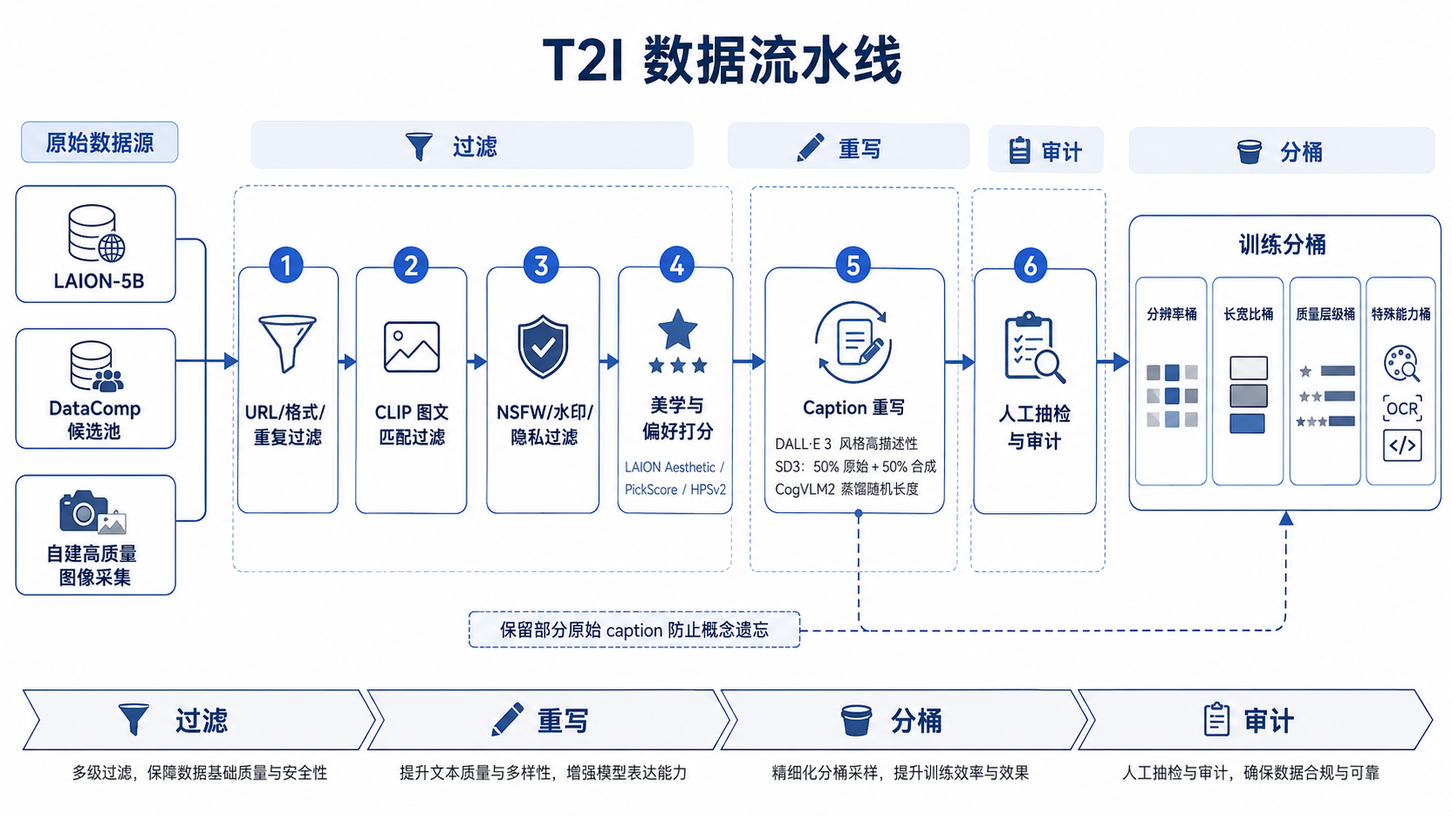
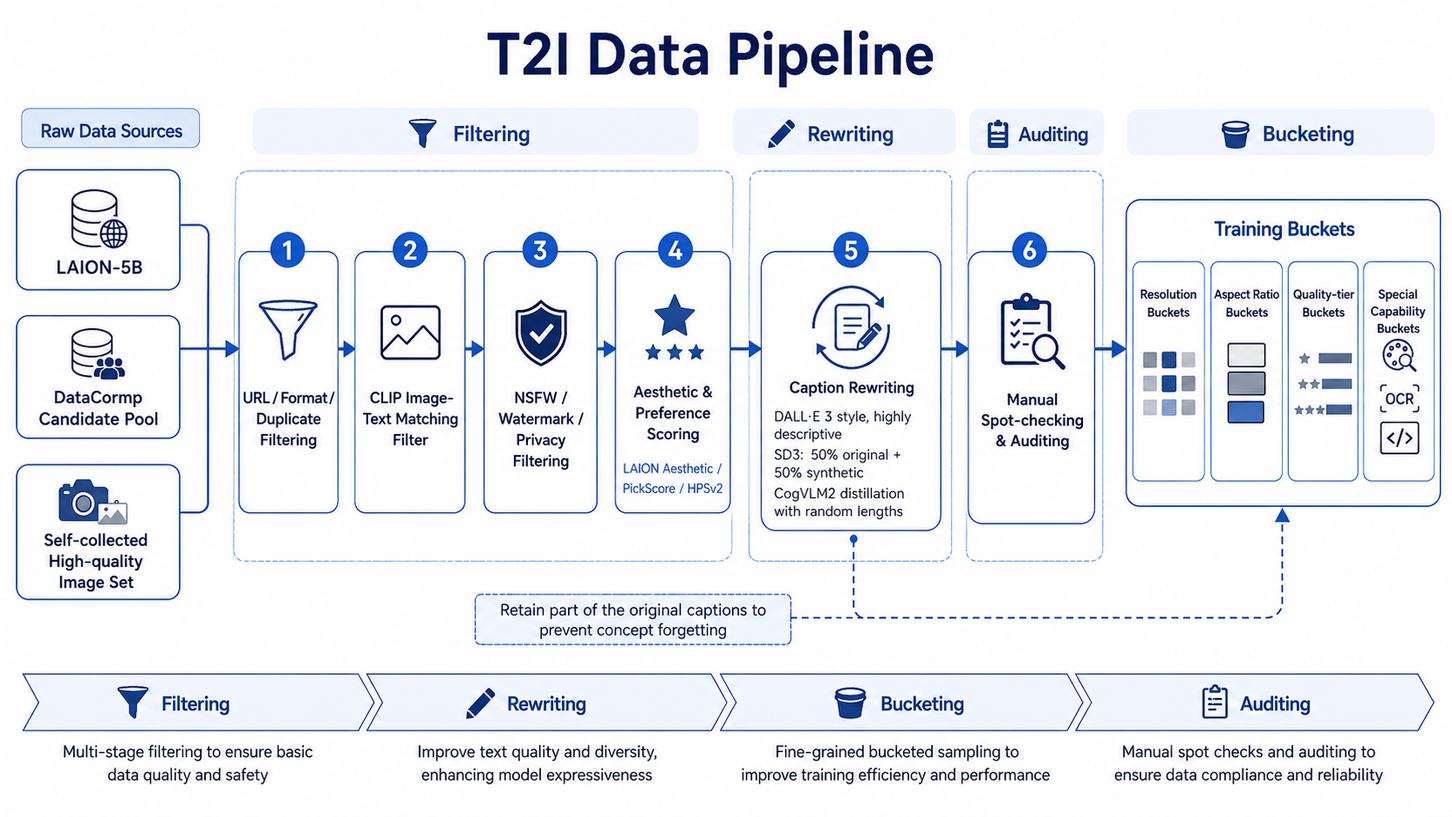
Update the English images and modify the issues related to cross-review.

diff --git a/docs/zh/part6/ch18_cot.md b/docs/zh/part6/ch18_cot.md
@@ -1,6 +1,6 @@
 **篇前导读**
 
-随着大模型从“会回答”走向“会推理、会调用工具、会进行多轮协作”，数据工程的重点也在发生变化；CoT 与 ReAct 等工作分别把中间推理步骤、推理—行动交错轨迹引入了大模型任务求解范式 ( Yao et al. 2023b)。过去，很多数据工作主要围绕结果展开，关注模型是否给出正确答案；但在推理模型与 Agent 系统中，仅有结果监督已经不足以支撑真实任务。模型是否会分步思考、是否能正确使用工具、是否能在多轮交互中保持状态一致并利用记忆，正在成为新的关键问题。
+随着大模型从“会回答”走向“会推理、会调用工具、会进行多轮协作”，数据工程的重点也在发生变化；CoT 与 ReAct 等工作分别把中间推理步骤、推理—行动交错轨迹引入了大模型任务求解范式 (Yao et al. 2023b)。过去，很多数据工作主要围绕结果展开，关注模型是否给出正确答案；但在推理模型与 Agent 系统中，仅有结果监督已经不足以支撑真实任务。模型是否会分步思考、是否能正确使用工具、是否能在多轮交互中保持状态一致并利用记忆，正在成为新的关键问题。
 
 因此，本篇聚焦“会想、会用工具、会记忆”的新型数据问题，讨论数据工程如何从结果监督升级到过程监督与轨迹监督；过程监督在数学推理任务中的作用，已经在 PRM800K 与过程奖励模型相关研究中被系统比较 (Lightman et al. 2024)。这里的数据已经从单轮问答对，逐渐扩展为推理过程、工具调用链路、交互状态和记忆演化等更复杂的结构。数据质量的衡量标准，也不再只是答案是否正确，而要进一步关注过程是否合理、执行是否成功、状态是否稳定。
 
@@ -20,9 +20,9 @@
 
 这个案例说明，推理数据工程的核心对象并不是孤立的答案，也不是单个能够通过测试的输出，而是答案背后的过程。对数学题、逻辑题、代码修复和多跳问答而言，数据样本不应只包含输入和输出，还应尽可能保存中间状态、证据来源、步骤判断、错误原因与控制决策。只有当这些过程被结构化记录、验证和改进时，团队才能知道模型到底是在推理，还是在用貌似合理的语言掩盖不稳定的路径。本章讨论的思维链、推理轨迹、步骤级验证、错误分类和难度组织，正是为了把这种不可见的过程转化为可分析、可训练、可迭代的数据工程对象。
 
-在大模型从“会回答”走向“会推理”的过程中，数据工程的重点会发生明显变化。对于一般的 SFT 数据，团队往往更关注输入是否清晰、输出是否正确、风格是否稳定；而对于数学、逻辑、代码等推理任务，仅仅拥有“问题—答案”对通常是不够的，GSM8K、MATH 与 HumanEval 等基准都把多步推理或可执行验证作为重要评测对象 ( Hendrycks et al. 2021a; Chen et al. 2021)。因为这类任务的关键不只是模型最后说对了什么，更在于它是否沿着一条可验证、可复现、可泛化的推理路径得到这个答案。很多部署中的不稳定现象，表面上看是“偶发答错”，本质上却是训练数据只奖励最终结果，没有约束中间过程，导致模型在不同题型、不同难度、不同上下文下采用了不一致甚至错误的内部策略。
+在大模型从“会回答”走向“会推理”的过程中，数据工程的重点会发生明显变化。对于一般的 SFT 数据，团队往往更关注输入是否清晰、输出是否正确、风格是否稳定；而对于数学、逻辑、代码等推理任务，仅仅拥有“问题—答案”对通常是不够的，GSM8K、MATH 与 HumanEval 等基准都把多步推理或可执行验证作为重要评测对象 (Hendrycks et al. 2021a; Chen et al. 2021)。因为这类任务的关键不只是模型最后说对了什么，更在于它是否沿着一条可验证、可复现、可泛化的推理路径得到这个答案。很多部署中的不稳定现象，表面上看是“偶发答错”，本质上却是训练数据只奖励最终结果，没有约束中间过程，导致模型在不同题型、不同难度、不同上下文下采用了不一致甚至错误的内部策略。
 
-因此，推理数据工程是在普通 SFT 基础上的系统性深化：它保留 SFT 与合成数据的基础生成方法，同时进一步引入推理轨迹表示、步骤级验证、错误分类、难度分层与过程监督；这一路线与 CoT、scratchpad、verifier 和过程监督等研究共同指向了“过程可见、过程可评”的数据组织方式 ( Nye et al. 2021;  Lightman et al. 2024)。它要求团队在“生产更多样本”的基础上，构建一条从题目生成、轨迹构造、自动校验、过程打标到课程组织的完整流水线。只有这样，模型才能从零散题目的答案映射中，学习到一套在数学计算、程序修复、符号推导、逻辑判定中都更稳定的推理行为模式。
+因此，推理数据工程是在普通 SFT 基础上的系统性深化：它保留 SFT 与合成数据的基础生成方法，同时进一步引入推理轨迹表示、步骤级验证、错误分类、难度分层与过程监督；这一路线与 CoT、scratchpad、verifier 和过程监督等研究共同指向了“过程可见、过程可评”的数据组织方式 (Nye et al. 2021;  Lightman et al. 2024)。它要求团队在“生产更多样本”的基础上，构建一条从题目生成、轨迹构造、自动校验、过程打标到课程组织的完整流水线。只有这样，模型才能从零散题目的答案映射中，学习到一套在数学计算、程序修复、符号推导、逻辑判定中都更稳定的推理行为模式。
 
 本章面向需要构建数学、逻辑、代码等推理数据集的团队，系统讨论为什么只看最终答案会掩盖推理缺陷、如何表示推理轨迹、如何做步骤级验证与错误分类、如何构建难度分层与样本组织方案，以及如何在真实工程中落地一套可持续扩展的推理数据流水线。
 
@@ -38,7 +38,7 @@
 
 数学题中，模型可能在某一步中使用了不合法的移项、约分或定理，却因为题目本身结构简单，最终仍然算出了正确数值。逻辑任务中，模型可能没有真正完成前提展开与规则匹配，只是直接套用了某个熟悉的结论形式。代码修复中，模型也可能没有理解 bug 的真实成因，只是碰巧修改了一个能让当前测试通过的局部位置；SWE-bench 这类真实 issue 级基准正是把“是否真正解决问题”放到仓库、测试与补丁语境中评估 (Jimenez et al. 2024)。表面上，这些样本都可以被归类为“成功”；但从能力学习的角度看，模型学到的更接近某种高风险的捷径，缺少稳定的求解机制。
 
-如果训练数据只保留“题目—答案”对，而不显式约束中间过程，那么训练阶段的奖励信号就会被极度压缩；训练 verifier 或过程奖励模型的思路，正是试图把反馈从最终答案扩展到候选解或中间步骤 ( Lightman et al. 2024)。模型不需要证明自己如何抵达结果，也不需要为过程中的跳步、伪解释、无依据推断付出代价。它只需要学会尽可能输出一个会被判定为“对”的终点。这样形成的能力，往往对题型、措辞、长度和上下文非常敏感。只要问题形式稍有变化，或者需要更长的推理链条，模型就可能迅速失去稳定性。
+如果训练数据只保留“题目—答案”对，而不显式约束中间过程，那么训练阶段的奖励信号就会被极度压缩；训练 verifier 或过程奖励模型的思路，正是试图把反馈从最终答案扩展到候选解或中间步骤 (Lightman et al. 2024)。模型不需要证明自己如何抵达结果，也不需要为过程中的跳步、伪解释、无依据推断付出代价。它只需要学会尽可能输出一个会被判定为“对”的终点。这样形成的能力，往往对题型、措辞、长度和上下文非常敏感。只要问题形式稍有变化，或者需要更长的推理链条，模型就可能迅速失去稳定性。
 
 更重要的是，正确答案与正确推理的脱钩，会直接误导团队对模型能力的判断。团队如果把“答对率提升”简单理解为“推理能力提升”，就可能在训练、评测和部署三个环节持续高估系统的真实水平。一个只擅长命中答案表面的模型，在离线评测中可能看起来已经足够优秀，但在真实使用场景里却很难维持可靠表现。
 
@@ -52,7 +52,7 @@
 
 ### 结果监督在复杂任务上的盲区
 
-结果监督适合那些目标明确、路径不重要或中间状态难以定义的任务；但在多步数学题和代码生成评测中，研究者已经普遍引入 verifier、单元测试或分步解答来补足最终标签的不足 (  Chen et al. 2021)。在分类任务中，我们关心标签是否正确；在简单抽取任务中，我们关心字段是否匹配；在低推理深度问答中，我们也常常只关心回答是否与事实一致。但一旦任务进入多步依赖、多约束耦合或长链求解，结果监督就会出现明显盲区。
+结果监督适合那些目标明确、路径不重要或中间状态难以定义的任务；但在多步数学题和代码生成评测中，研究者已经普遍引入 verifier、单元测试或分步解答来补足最终标签的不足 (Chen et al. 2021)。在分类任务中，我们关心标签是否正确；在简单抽取任务中，我们关心字段是否匹配；在低推理深度问答中，我们也常常只关心回答是否与事实一致。但一旦任务进入多步依赖、多约束耦合或长链求解，结果监督就会出现明显盲区。
 
 第一，结果监督无法告诉我们错误发生在哪一层。一个最终错误，可能来自题意理解错误、条件遗漏、局部计算错误、规则误用、状态不一致，也可能只是最后输出格式偏差。若只保留整题对错，这些完全不同性质的问题都会被压缩成同一种失败标签。第二，结果监督无法区分“几乎正确但最后一小步失误”和“前面全错但碰巧答对”这两类样本。前者通常具有很强的训练价值，因为它说明模型主体路径已经接近正确；后者则是高风险样本，因为它可能把错误模式包装成正例。第三，结果监督无法为数据迭代提供细粒度反馈。团队最多知道某类题整体成功率不高，却不知道究竟是哪一类步骤、哪一类规则、哪一类变量操作在持续出问题。
 
@@ -62,7 +62,7 @@
 
 ### 为什么结果监督会误导数据分析
 
-在实际工程中，数据分析往往依赖一些宏观指标，例如准确率、通过率、整题成功率或平均得分。这些指标当然有用，但如果任务本质上依赖过程，它们就只能反映最终表现，无法揭示内部机制；APPS、HumanEval 与 SWE-bench 虽然都使用可执行测试衡量结果 ( Chen et al. 2021; Jimenez et al. 2024)，但它们也暴露出 pass rate 难以解释具体失败根因的问题。于是，团队很容易陷入一种假象：只要整体指标在上升，就说明系统在持续变好。
+在实际工程中，数据分析往往依赖一些宏观指标，例如准确率、通过率、整题成功率或平均得分。这些指标当然有用，但如果任务本质上依赖过程，它们就只能反映最终表现，无法揭示内部机制；APPS、HumanEval 与 SWE-bench 虽然都使用可执行测试衡量结果 (Chen et al. 2021; Jimenez et al. 2024)，但它们也暴露出 pass rate 难以解释具体失败根因的问题。于是，团队很容易陷入一种假象：只要整体指标在上升，就说明系统在持续变好。
 
 问题在于，指标上升可能来自多种完全不同的原因。有时是因为模型确实学会了更稳定的推理路径；有时却只是因为它记住了更多高频模式，或在某类固定 benchmark 上形成了更强的模板匹配能力。如果团队没有过程级视角，就无法区分这两种情况。于是，数据分析看起来很积极，模型却并没有获得足够的泛化能力。
 
@@ -82,7 +82,7 @@
 
 数学长题中，一个早期变量定义的偏差，会让后续所有推导失去意义；逻辑多跳问题中，一次前提遗漏会导致整条论证链条塌陷；代码复杂修复中，对根因的误判会使后续补丁设计全部偏离方向。链条越长，过程的稳定性越重要，结果监督的局限也就越明显。因为当错误累积到后段时，团队只看到“最后错了”，却看不到究竟是哪一层级首先崩坏。
 
-这也是为什么推理数据工程必须强调过程；scratchpad 与 CoT 相关实验均显示，把中间计算或推理显式化会显著改变模型处理多步任务的能力边界 ( Nye et al. 2021)。原因在于，在长链任务中，过程就是正确性的主要载体，并非过程本身更“高级”。没有过程约束，模型在复杂任务上的表现很难真正稳定下来。
+这也是为什么推理数据工程必须强调过程；scratchpad 与 CoT 相关实验均显示，把中间计算或推理显式化会显著改变模型处理多步任务的能力边界 (Nye et al. 2021)。原因在于，在长链任务中，过程就是正确性的主要载体，并非过程本身更“高级”。没有过程约束，模型在复杂任务上的表现很难真正稳定下来。
 
 ### 从“答案导向”转向“过程导向”
 
@@ -171,8 +171,9 @@ Tree-of-Thought (Yao et al. 2023a) 将推理过程从单一线性链扩展为多
 
 从工程上讲，推理轨迹的结构化程度，实际上决定了自动化验证的上限。轨迹越混杂、越自由、越依赖隐含理解，验证成本就越高；轨迹越清晰、越字段化、越显式，后续质控就越容易稳定运行。因此，一个成熟的数据系统从来不会把表示方式当成单纯的书写风格问题，而会把它视为整个推理数据管线的基础设施。
 
-### 表：推理样本类型与适用任务表
 
+
+*表 18-1：推理样本类型与适用任务表*
 | 推理样本类型 | 主要表示形式 | 适用任务 | 优势 | 局限 |
 |---|---|---|---|---|
 | 答案型样本 | 问题 + 最终答案 | 简单问答、分类、低推理深度任务 | 成本低、吞吐高 | 无法暴露过程缺陷 |
@@ -185,7 +186,7 @@ Tree-of-Thought (Yao et al. 2023a) 将推理过程从单一线性链扩展为多
 
 
 
-![图18-1：推理数据构造与验证流程图](../../images/part6/图18_1_zh.png)
+![图18-1：推理数据构造与验证流程图](../../images/part6/图18_1.png)
 
 *图18-1：推理数据构造与验证流程图*
 
@@ -268,7 +269,7 @@ if __name__ == "__main__":
     print(verify_step("x = __import__('os').system('rm -rf /')"))  # False
 ```
 
-单元测试主要服务于代码修复、程序合成和结构化工具调用任务；HumanEval、APPS 和 MBPP 都把测试用例或程序行为作为代码生成评测的重要依据 ( Chen et al. 2021; Austin et al. 2021)。它不仅检查最终程序是否运行，还检查修复是否真正满足预期行为。对于代码任务来说，只看生成文本往往是不够的，真正的质量标准在于程序行为是否正确、边界条件是否覆盖、是否引入新副作用。单元测试在这里承担的是“行为真值”角色，它比文本相似度、表面解释质量更接近实际使用标准。
+单元测试主要服务于代码修复、程序合成和结构化工具调用任务；HumanEval、APPS 和 MBPP 都把测试用例或程序行为作为代码生成评测的重要依据 (Chen et al. 2021; Austin et al. 2021)。它不仅检查最终程序是否运行，还检查修复是否真正满足预期行为。对于代码任务来说，只看生成文本往往是不够的，真正的质量标准在于程序行为是否正确、边界条件是否覆盖、是否引入新副作用。单元测试在这里承担的是“行为真值”角色，它比文本相似度、表面解释质量更接近实际使用标准。
 
 裁判模型 (Zheng et al. 2023; Liu et al. 2023) 则用于补足规则和执行都难以覆盖的语义判断。例如，一个解释是否真的支撑了后续结论，一个逻辑步骤是否属于跳步，一个代码修复理由是否与 patch 行为一致，一段自反思是否真正识别了错误根因。这类问题往往无法完全形式化，但又不能放任不管。裁判模型的价值就在于，它能在大规模场景下提供一种近似语义审核能力。当然，它本身并不绝对可靠，因此通常应与规则和执行验证共同使用，避免单独作为最终标准。
 
@@ -312,18 +313,21 @@ if __name__ == "__main__":
 
 在很多流水线里，整题对错会天然成为最显眼的评分指标，因为它最简单、最直观，也最容易与 benchmark 接轨。但如果过程评分仍然主要依赖最终结果，那么所谓“过程监督”就很容易退化成结果监督的变体；Lightman 等人的实验正是围绕 outcome supervision 与 process supervision 的差异展开 (Lightman et al. 2024)。真正的过程评分应当尽量从中间结构本身出发，避免只把最终答案当作唯一参照物。
 
+
+![图18-2：过程监督标签示意图](../../images/part6/图18_2.png)
+*图18-2：过程监督标签示意图*
+
 例如，一个样本最终答错，但前面九成步骤都正确，且最后一步错误清晰可纠，那么它对训练局部修正能力和过程稳健性仍然很有价值。相反，一个样本最终答对，但中间充满跳步、伪解释和隐含幻觉，那么它虽然在结果上通过，却未必值得高分。换句话说，过程评分必须敢于把“答对但过程差”的样本压低，也要敢于把“答错但过程主体优良”的样本与普通失败样本区分开来。只有这样，评分体系才不会反过来强化结果导向的旧习惯。
 
 
 
 
 
-![图18-2：过程监督标签示意图](../../images/part6/图18_2_zh.png)
 
-*图18-2：过程监督标签示意图*
 
-### 表：错误类型与纠偏动作表
 
+
+*表 18-2：错误类型与纠偏动作表*
 | 错误类型 | 典型表现 | 常见成因 | 推荐纠偏动作 |
 |---|---|---|---|
 | 算术错误 | 计算结果错误、符号抄错、代入失误 | 基础计算不稳、轨迹过长导致局部出错 | 用执行器复算，替换错误步骤并回放后续链条 |
@@ -425,13 +429,13 @@ if __name__ == "__main__":
 
 ### 数学推理数据集构建案例
 
-设想一个面向中学到大学基础阶段的数学推理数据集构建项目；GSM8K 与 MATH 分别代表了小学数学文字题和竞赛数学题两类常用推理数据资源 ( Hendrycks et al. 2021a)。项目初期可以先收集真实题目，覆盖代数、几何、函数、概率等子领域，并为每类题建立基础 schema，例如题干、已知条件、目标、标准解、步骤序列、中间表达式与答案。然后使用教师模型或规则程序生成初始轨迹，再通过表达式求值器、符号计算器和规则检查器验证每一步是否合法。
+设想一个面向中学到大学基础阶段的数学推理数据集构建项目；GSM8K 与 MATH 分别代表了小学数学文字题和竞赛数学题两类常用推理数据资源 (Hendrycks et al. 2021a)。项目初期可以先收集真实题目，覆盖代数、几何、函数、概率等子领域，并为每类题建立基础 schema，例如题干、已知条件、目标、标准解、步骤序列、中间表达式与答案。然后使用教师模型或规则程序生成初始轨迹，再通过表达式求值器、符号计算器和规则检查器验证每一步是否合法。
 
 在这个流程中，团队不应满足于“整题答对率”。更重要的是把失败样本拆开看：到底是基础计算经常错，还是变量替换和条件约束容易丢失，还是模型倾向于写漂亮但空洞的解释。只有把这些错误映射为可统计的类型，数据团队才能反过来改进生成模板、增加针对性样本、调整验证规则。最后，数据集应按难度和错误类型双重维度入库，分别服务于基础 SFT、过程监督训练和纠错能力训练。
 
 ### 数学推理数据集为什么适合作为过程监督的典型场景
 
-数学任务之所以特别适合做推理数据工程，一个重要原因在于它天然具有较强的步骤结构；GSM8K 提供自然语言解题过程，MATH 则提供更高难度竞赛题及分步解答 ( Hendrycks et al. 2021a)。与开放式写作或一般闲聊不同，数学题的求解过程通常包含相对明确的中间状态变化：已知条件如何被整理，变量如何被定义，表达式如何被变换，规则如何被调用，结论如何被推出。这使得“过程”从附属说明转变为题目本身的一部分。也正因为如此，数学任务中的错误往往不会停留在抽象层面，而会具体表现为某一步不合法、某个条件被遗漏、某次代换不成立、某个定理适用前提未被满足。
+数学任务之所以特别适合做推理数据工程，一个重要原因在于它天然具有较强的步骤结构；GSM8K 提供自然语言解题过程，MATH 则提供更高难度竞赛题及分步解答 (Hendrycks et al. 2021a)。与开放式写作或一般闲聊不同，数学题的求解过程通常包含相对明确的中间状态变化：已知条件如何被整理，变量如何被定义，表达式如何被变换，规则如何被调用，结论如何被推出。这使得“过程”从附属说明转变为题目本身的一部分。也正因为如此，数学任务中的错误往往不会停留在抽象层面，而会具体表现为某一步不合法、某个条件被遗漏、某次代换不成立、某个定理适用前提未被满足。
 
 这类结构化特征使数学推理数据非常适合引入步骤级标签与自动验证。很多中间步骤都可以借助表达式求值器、符号运算工具、规则检查器进行形式化审核。团队不必仅凭人工直觉判断一条推理“看起来是否合理”，可以把一部分关键判断交给可重复执行的验证模块。对于数据工程而言，这一点非常关键，因为它意味着数学推理数据不仅可以被生成出来，还可以被系统性地质检、分层和迭代。
 
@@ -477,9 +481,9 @@ if __name__ == "__main__":
 
 ### 代码修复与程序合成推理数据案例
 
-代码任务的工程流程与数学相似，但验证机制更依赖程序执行环境；HumanEval、APPS 和 MBPP 都采用程序运行或测试用例来评估生成代码的功能正确性 ( Chen et al. 2021; Austin et al. 2021)。一个高质量代码修复数据集，不能只保存“错误代码—正确代码”对，还应包括触发缺陷的测试、错误日志、定位过程、修改理由、patch 内容以及修复后的测试结果；Defects4J 与 SWE-bench 都把缺陷、测试和修复上下文作为软件修复研究的重要数据对象 (Jimenez et al. 2024; Just et al. 2014)。这样模型学习的是完整的问题求解闭环，而不只是静态文本映射。
+代码任务的工程流程与数学相似，但验证机制更依赖程序执行环境；HumanEval、APPS 和 MBPP 都采用程序运行或测试用例来评估生成代码的功能正确性 (Chen et al. 2021; Austin et al. 2021)。一个高质量代码修复数据集，不能只保存“错误代码—正确代码”对，还应包括触发缺陷的测试、错误日志、定位过程、修改理由、patch 内容以及修复后的测试结果；Defects4J 与 SWE-bench 都把缺陷、测试和修复上下文作为软件修复研究的重要数据对象 (Jimenez et al. 2024; Just et al. 2014)。这样模型学习的是完整的问题求解闭环，而不只是静态文本映射。
 
-程序合成任务同样需要过程表示；MBPP、APPS ( Austin et al. 2021) 与 CodeGen 的多轮程序合成研究 (Nijkamp et al. 2023)都说明，自然语言规格到代码实现之间存在可被分解与评测的中间结构。对于一段自然语言需求到代码实现的样本，团队可以保留需求分析、中间设计、关键函数草图、边界条件说明和最终实现，再通过单元测试、静态检查、运行结果对齐来完成验证。若把这些中间状态全都省略，只保留需求与代码，那么模型很容易学会表面模式，却无法在新任务中稳定规划程序结构。
+程序合成任务同样需要过程表示；MBPP、APPS (Austin et al. 2021) 与 CodeGen 的多轮程序合成研究 (Nijkamp et al. 2023)都说明，自然语言规格到代码实现之间存在可被分解与评测的中间结构。对于一段自然语言需求到代码实现的样本，团队可以保留需求分析、中间设计、关键函数草图、边界条件说明和最终实现，再通过单元测试、静态检查、运行结果对齐来完成验证。若把这些中间状态全都省略，只保留需求与代码，那么模型很容易学会表面模式，却无法在新任务中稳定规划程序结构。
 
 代码数据还特别适合构造纠错样本。因为程序环境天然支持“失败—定位—修复—再验证”的闭环，这比纯自然语言场景更容易形成高价值过程数据。团队完全可以基于已有代码仓库、OJ 题目、测试集和失败日志，构建一套持续扩展的推理修复数据流水线。
 
@@ -519,7 +523,7 @@ if __name__ == "__main__":
 
 代码推理数据的来源大致可以分成两类。一类来自真实工程环境，例如代码仓库中的 issue、历史 bug 修复记录、pull request、CI 失败日志、回归测试报告等；SWE-bench 正是从真实 GitHub issue 与 pull request 中构造软件工程任务 (Jimenez et al. 2024)。这类数据的优势在于真实性强、错误自然、上下文丰富，特别适合训练接近真实开发流程的修复与分析能力。但它的问题也很明显：上下文可能过长、噪声较多、依赖环境复杂，且标注清洗成本通常较高。
 
-另一类来自题库与受控环境，例如 OJ 题、教学案例、人工构造 bug 集、受限编程任务等；APPS 的 10,000 个编程题、MBPP 的入门级 Python 任务和 Defects4J 的受控真实缺陷都属于这类可评测数据资源的重要代表 ( Austin et al. 2021; Just et al. 2014)。这类数据更容易控制任务边界、测试环境和难度层级，也更适合做程序合成和基础代码修复训练。其不足在于真实复杂性相对有限，错误分布可能与真实工程场景存在差距。
+另一类来自题库与受控环境，例如 OJ 题、教学案例、人工构造 bug 集、受限编程任务等；APPS 的 10,000 个编程题、MBPP 的入门级 Python 任务和 Defects4J 的受控真实缺陷都属于这类可评测数据资源的重要代表 (Austin et al. 2021; Just et al. 2014)。这类数据更容易控制任务边界、测试环境和难度层级，也更适合做程序合成和基础代码修复训练。其不足在于真实复杂性相对有限，错误分布可能与真实工程场景存在差距。
 
 成熟团队通常会把两者结合起来，而不会只依赖其中一类。题库数据适合作为基础能力训练与过程格式统一的主要来源，真实工程数据则适合作为高阶鲁棒性、复杂上下文处理和实际修复行为学习的补充。通过这样的组合，代码推理数据系统既能保持可控性，又不至于脱离真实开发场景。
 
@@ -533,7 +537,7 @@ if __name__ == "__main__":
 
 从全书结构看，推理数据工程是在 SFT 与合成数据工程基础上向更深层次延伸，并非要替代二者。前面的 SFT 章节解决的是“模型应该怎样回答”，合成数据章节解决的是“怎样规模化生产可用样本”，而本章解决的是“当任务本质上依赖过程时，怎样把推理过程也变成可设计、可验证、可训练的数据对象”。
 
-因此，一个成熟团队在方法上往往是连续的：先用 SFT 方法定义任务接口与输出规范，再用合成数据方法扩大覆盖与补齐长尾，最后在推理任务上加入轨迹表示、步骤验证、难度课程和纠错闭环；这一层可以分别吸收 CoT/PoT/ToT、过程监督和 curriculum learning 的方法基础 (  Chen et al. 2023; Lightman et al. 2024; Bengio et al. 2009)。只有把这三层连起来，团队才真正拥有一条面向推理能力建设的数据工程链路，避免停留在若干互相割裂的数据生产技巧上。
+因此，一个成熟团队在方法上往往是连续的：先用 SFT 方法定义任务接口与输出规范，再用合成数据方法扩大覆盖与补齐长尾，最后在推理任务上加入轨迹表示、步骤验证、难度课程和纠错闭环；这一层可以分别吸收 CoT/PoT/ToT、过程监督和 curriculum learning 的方法基础 (Chen et al. 2023; Lightman et al. 2024; Bengio et al. 2009)。只有把这三层连起来，团队才真正拥有一条面向推理能力建设的数据工程链路，避免停留在若干互相割裂的数据生产技巧上。
 
 ### 本章与前文的递进关系
 
@@ -555,7 +559,7 @@ if __name__ == "__main__":
 
 ## 本章小结
 
-推理数据工程的核心，不在于让模型“多说一点思考过程”，而在于把中间过程纳入可设计、可验证、可分层、可训练的工程闭环。只看最终答案会掩盖推理缺陷，因为正确结果并不等于正确过程；只做结果监督会忽略复杂任务中的关键错误来源，因为模型可能通过不稳定甚至错误的路径碰巧答对。为了解决这一问题，团队需要首先设计合适的推理轨迹表示方式，让 CoT、scratchpad、program-of-thought 和 tree-of-thought 各自服务于不同任务 ( Nye et al. 2021;  Chen et al. 2023)；其次建立步骤级自动验证体系，将规则验证、执行验证、单元测试和裁判模型组合起来 (Liu et al. 2023; Chen et al. 2021)；再进一步把错误细分为算术错误、逻辑跳步、伪解释、幻觉步骤等类型，并据此构建步骤级标签和过程质量评分；最后通过难度分桶、课程学习 (Bengio et al. 2009)、正反例组织、纠错样本与自反思样本设计 (Shinn et al. 2023; Madaan et al. 2023)，把推理数据从零散样本提升为可持续演进的数据系统。
+推理数据工程的核心，不在于让模型“多说一点思考过程”，而在于把中间过程纳入可设计、可验证、可分层、可训练的工程闭环。只看最终答案会掩盖推理缺陷，因为正确结果并不等于正确过程；只做结果监督会忽略复杂任务中的关键错误来源，因为模型可能通过不稳定甚至错误的路径碰巧答对。为了解决这一问题，团队需要首先设计合适的推理轨迹表示方式，让 CoT、scratchpad、program-of-thought 和 tree-of-thought 各自服务于不同任务 (Nye et al. 2021;  Chen et al. 2023)；其次建立步骤级自动验证体系，将规则验证、执行验证、单元测试和裁判模型组合起来 (Liu et al. 2023; Chen et al. 2021)；再进一步把错误细分为算术错误、逻辑跳步、伪解释、幻觉步骤等类型，并据此构建步骤级标签和过程质量评分；最后通过难度分桶、课程学习 (Bengio et al. 2009)、正反例组织、纠错样本与自反思样本设计 (Shinn et al. 2023; Madaan et al. 2023)，把推理数据从零散样本提升为可持续演进的数据系统。
 
 对于数学、逻辑、代码等任务而言，真正高价值的数据，应从“答案正确的数据”进一步升级为“过程可靠、错误可归因、难度可组织、验证可闭环的数据”。这也是推理数据工程区别于普通 SFT 数据工程的根本所在。
 

diff --git a/docs/zh/part5/ch16_distillation.md b/docs/zh/part5/ch16_distillation.md
@@ -41,7 +41,7 @@
 
 所谓能力单元，指的是学生需要稳定掌握的一种最小可评估能力片段。它可以是“根据用户输入判断是否调用工具”，也可以是“根据法规条文抽取责任主体”，还可以是“在检索结果中筛选支持结论的关键证据”。把蒸馏任务拆成能力单元的目的，不只是为了数据标注方便，更是为了让教师输出、样本字段和学生目标形成可追踪的对应关系。只有当一个能力单元是清楚的，团队才能知道应该蒸馏答案、蒸馏过程、蒸馏风格，还是蒸馏工具轨迹。
 
-这一步很重要，因为同样是问答样本，实际训练目标可能完全不同。有的样本训练事实抽取，有的训练证据归纳，有的训练边界表达，还有的训练语气控制。如果不提前拆清楚，所有样本都会被笼统归到“问答能力”下面。要是不先把这些东西拆开，所有样本都会被笼统地归到“问答能力”下面，结果学生到底学到了什么，团队自己都很难说清。训练时看起来损失下降了，评估时也许局部指标还能涨一点，但一换场景或者一做错误归因，就会发现整套监督信号其实是糊在一起的。
+这一步很重要，因为同样是问答样本，实际训练目标可能完全不同。有的样本训练事实抽取，有的训练证据归纳，有的训练边界表达，还有的训练语气控制。要是不先把这些东西拆开，所有样本都会被笼统地归到“问答能力”下面，结果学生到底学到了什么，团队自己都很难说清。训练时看起来损失下降了，评估时也许局部指标还能涨一点，但一换场景或者一做错误归因，就会发现整套监督信号其实是糊在一起的。
 
 能力单元明确之后，样本设计才有了边界。比如，对于“是否需要调用外部工具”这种判断任务，样本的关键不在于教师后面写了多少解释，而在于是否把输入上下文、触发条件、调用决策和错误反例保留下来。再比如，对于“长文本规范改写”这种任务，学生更需要学的是风格约束、信息保真和篇章结构，而不是教师在生成过程中所有的冗长思考。一个团队如果能先把任务拆解成若干明确的能力单元，再分别设计蒸馏样本结构，那么后续无论是教师替换、裁判升级还是学生换代，整条链路都会更可控。
 
@@ -186,7 +186,7 @@ if __name__ == "__main__":
 
 ### 蒸馏收益的边界：压缩、迁移与专精
 
-蒸馏并不是一条无限增益的路径。团队在推动蒸馏时，必须清楚蒸馏收益到底来自哪里。第一类收益是压缩，即把大模型在某类任务上的可用能力转移给更小、更快、更便宜的模型，以换取推理成本和延迟上的优势 (Hinton et al. 2015; Bucila et al. 2006)。第二类收益是迁移，即借助强教师模型为弱监督或稀缺场景生成高质量伪标签，让学生快速获得某类能力 ( Wang et al. 2023; Xu et al. 2024)。第三类收益是专精，即通过多轮蒸馏和筛选，把某个垂直场景的知识、规范和风格固化到一个更轻量的专业模型中。
+蒸馏并不是一条无限增益的路径。团队在推动蒸馏时，必须清楚蒸馏收益到底来自哪里。第一类收益是压缩，即把大模型在某类任务上的可用能力转移给更小、更快、更便宜的模型，以换取推理成本和延迟上的优势 (Hinton et al. 2015; Bucila et al. 2006)。第二类收益是迁移，即借助强教师模型为弱监督或稀缺场景生成高质量伪标签，让学生快速获得某类能力 (Wang et al. 2023; Xu et al. 2024)。第三类收益是专精，即通过多轮蒸馏和筛选，把某个垂直场景的知识、规范和风格固化到一个更轻量的专业模型中。
 
 但蒸馏也存在边界。对于极强的开放域推理、长程复杂规划或高度依赖最新外部知识的任务，蒸馏往往只能迁移“常见模式”，难以完整迁移“实时能力”。当业务变化极快、数据分布频繁漂移时，蒸馏的收益也会被维护成本侵蚀。换句话说，蒸馏适合把相对稳定、频繁出现、可结构化定义的能力沉淀下来，而不适合拿来替代所有在线智能。
 
@@ -297,7 +297,7 @@ if __name__ == "__main__":
 
 ### 学生模型能力目标与训练配方设计
 
-学生模型是一个有明确能力目标的独立产品单元，而非缩小版教师模型 (Mirzadeh et al. 2020)。决定学生训练配方的关键，是学生最终要达到什么，而非教师用了什么。一个面向客服质检的学生模型，追求的是稳定、低延迟、格式统一 ( Jiao et al. 2020)；一个面向领域问答的学生模型，追求的是事实一致性与术语规范；一个面向工具调用的学生模型，追求的是参数正确率和调用成功率。不同目标，对样本结构、训练轮数、负样本比例、难例保留策略都有不同要求。
+学生模型是一个有明确能力目标的独立产品单元，而非缩小版教师模型 (Mirzadeh et al. 2020)。决定学生训练配方的关键，是学生最终要达到什么，而非教师用了什么。一个面向客服质检的学生模型，追求的是稳定、低延迟、格式统一 (Jiao et al. 2020)；一个面向领域问答的学生模型，追求的是事实一致性与术语规范；一个面向工具调用的学生模型，追求的是参数正确率和调用成功率。不同目标，对样本结构、训练轮数、负样本比例、难例保留策略都有不同要求。
 
 因此，蒸馏训练配方不能脱离学生能力目标单独讨论。若学生目标是稳定短答，就不应过度依赖冗长解释链；若学生目标是复杂决策，就不能只蒸馏最终标签。更进一步，训练配方还要结合学生模型的容量边界。小模型最怕样本结构过度复杂、标签噪声过高、风格分布不一致。换句话说，教师越强，越需要有人负责把输出整理成学生真正学得动的形态。
 
@@ -305,7 +305,7 @@ if __name__ == "__main__":
 
 ### 学生是业务执行体，而非教师的缩略图
 
-这是蒸馏工程里非常值得单独强调的一点。学生模型常被想象成“更小的教师”，但这种想法会误导整个系统设计。学生不是为了忠实复刻教师而存在的，它是为了在特定业务边界内稳定执行任务而存在的。只要学生在关键任务上足够可靠、足够便宜、足够快，它就已经完成了自身使命 (  Jiao et al. 2020)。
+这是蒸馏工程里非常值得单独强调的一点。学生模型常被想象成“更小的教师”，但这种想法会误导整个系统设计。学生不是为了忠实复刻教师而存在的，它是为了在特定业务边界内稳定执行任务而存在的。只要学生在关键任务上足够可靠、足够便宜、足够快，它就已经完成了自身使命 (Jiao et al. 2020)。
 
 正因为如此，学生训练不应以“像不像教师”为最高目标，而应以“能不能完成业务职责”为最高目标。教师可以有创造性、开放性和探索性，但学生更需要确定性、可验证性和行为边界。如果团队总是用教师视角评价学生，就会不断要求学生学更多、更全、更复杂，最终把本该轻量可控的学生变成一个高不成低不就的半成品。
 
@@ -319,6 +319,8 @@ if __name__ == "__main__":
 
 为了让模型协作方式更清晰，下面给出一张常见协作模式与适用任务的对应表。
 
+*表16-1： 协作模式与适用任务*
+
 | 协作模式 | 角色配置 | 典型流程 | 适用任务 | 优势 | 风险点 |
 |---|---|---|---|---|---|
 | 单教师直蒸 | 1个教师 + 1个学生 | 教师生成 → 规则过滤 → 学生训练 | 格式化问答、简单分类、模板写作 | 链路短、启动快、风格统一 | 单一偏差容易继承 |
@@ -327,11 +329,11 @@ if __name__ == "__main__":
 | 专家混合蒸馏 | 路由器 + 多专家教师 + 裁判 + 学生 | 任务识别 → 专家生成 → 裁判聚合 → 学生训练 | 法律、金融、医疗等高约束场景 | 分工清晰，适配复杂任务 | 路由错误会放大系统失配 |
 | 工具轨迹协作 | 教师代理 + 工具执行器 + 裁判 + 学生 | 规划 → 调工具 → 校验 → 轨迹蒸馏 | Agent、检索问答、代码助手 | 可迁移操作流程能力 | 轨迹噪声多，验证成本高 |
 
-在多模型协作的工程实现中，时序与交接点同样重要。下面给出一张适合书稿配图的模型协作生成时序图提示词。
+在多模型协作的工程实现中，时序与交接点同样重要，下面给出模型协作生成时序图。
 
 
-![图16-1：模型协作生成时序图](../../images/part5/图16_1_zh.png)
-*图16-1：数模型协作生成时序图*
+![图16-1：模型协作生成时序图](../../images/part5/图16_1.png)
+*图16-1：多模型协作生成时序图*
 
 ---
 
@@ -355,7 +357,7 @@ if __name__ == "__main__":
 
 ### 不同蒸馏类型对应不同的监督密度
 
-虽然答案蒸馏、过程蒸馏、风格蒸馏和工具轨迹蒸馏常常被并列讨论，但它们之间一个非常关键的差异在于监督密度。答案蒸馏通常提供的是相对稀疏的监督信号，即学生只知道“输入最终对应什么输出” (Hinton et al. 2015; Kim and Rush 2016)；过程蒸馏 ( Lightman et al. 2023)提供的是中等到高密度监督，因为学生不仅看见最终答案，还看见部分判断路径 (Lightman et al. 2023; Wei et al. 2022)；工具轨迹蒸馏 (Schick et al. 2023; Yao et al. 2023; Patil et al. 2024)的监督密度往往更高，因为它不仅包含决策结果，还包含调用时机、动作序列、执行反馈与收束方式 (Schick et al. 2023)。
+虽然答案蒸馏、过程蒸馏、风格蒸馏和工具轨迹蒸馏常常被并列讨论，但它们之间一个非常关键的差异在于监督密度。答案蒸馏通常提供的是相对稀疏的监督信号，即学生只知道“输入最终对应什么输出” (Hinton et al. 2015; Kim and Rush 2016)；过程蒸馏 (Lightman et al. 2023)提供的是中等到高密度监督，因为学生不仅看见最终答案，还看见部分判断路径 (Lightman et al. 2023; Wei et al. 2022)；工具轨迹蒸馏 (Schick et al. 2023; Yao et al. 2023; Patil et al. 2024)的监督密度往往更高，因为它不仅包含决策结果，还包含调用时机、动作序列、执行反馈与收束方式 (Schick et al. 2023)。
 
 这件事看上去像是样本格式差异，实际上会直接影响学生学到什么、学得多稳。答案蒸馏最“轻”，因为它几乎只告诉学生最后该说什么。这样的监督好处是简单、干净、训练成本低，学生不容易被太多中间信息拖住，尤其适合那些输入边界清楚、结果形式稳定的任务，比如结构化抽取、短答分类、格式规范改写之类。可它的弱点也很明显：学生知道最后长成什么样，却不一定知道为什么要这么答。遇到稍微变形一点的输入，或者需要在几个相近选项里做判断时，它就容易显得脆。
 
@@ -409,7 +411,7 @@ if __name__ == "__main__":
 
 ### 解释链保留的关键在可迁移性，而非长度
 
-在大模型蒸馏中，解释链 ( Lightman et al. 2023; Wei et al. 2022)一直是一个容易被神化的对象。很多团队直觉上认为，只要把教师的思考过程完整保留下来，学生就更容易学会推理 (Wei et al. 2022)。但实际情况要复杂得多。解释链是否有价值，并不由它是否完整决定，而由它是否对学生形成可迁移的判断结构决定。
+在大模型蒸馏中，解释链 (Lightman et al. 2023; Wei et al. 2022)一直是一个容易被神化的对象。很多团队直觉上认为，只要把教师的思考过程完整保留下来，学生就更容易学会推理 (Wei et al. 2022)。但实际情况要复杂得多。解释链是否有价值，并不由它是否完整决定，而由它是否对学生形成可迁移的判断结构决定。
 
 这种误解很常见，因为从人的视角看，一段长而完整的解释链往往显得“信息很多”。教师先分析背景，再拆解条件，再权衡若干可能性，最后得出结论，整个过程看上去很像真正的推理轨迹。可问题在于，学生模型并不是在阅读这段过程，它是在拿这段过程当训练信号。对小模型来说，过长的自然语言解释并不一定会自动变成更清楚的推理框架，反而很可能先变成一堆要模仿的句式、铺垫和表达习惯。最后学到手的，常常是“像在分析”，而不一定是真的更会判断。
 
@@ -467,13 +469,13 @@ if __name__ == "__main__":
 
 ### 样本压缩的重点是结构化裁剪，而非一味做短
 
-需要警惕的是，样本压缩并不等于一味把文本做短 ( Romero et al. 2015)。很多团队意识到冗余问题后，容易走向另一个极端：把教师输出过度裁剪，最后只剩一个非常简短的答案或标签。这样做确实减小了样本长度，但也可能把有价值的判断依据一起删掉，导致学生只学到表层结果，失去泛化所需的中间结构。
+需要警惕的是，样本压缩并不等于一味把文本做短 (Romero et al. 2015)。很多团队意识到冗余问题后，容易走向另一个极端：把教师输出过度裁剪，最后只剩一个非常简短的答案或标签。这样做确实减小了样本长度，但也可能把有价值的判断依据一起删掉，导致学生只学到表层结果，失去泛化所需的中间结构。
 
 真正有效的压缩，更接近一种结构化裁剪。它保留的是任务真正需要的部分，删除的是对学生学习帮助不大的部分。比如，对于结构化决策任务，保留“结论 + 关键依据 + 限制条件”通常比保留大段解释更有效；对于工具型任务，保留“触发条件 + 调用参数 + 工具反馈 + 最终收束”比保留自然语言推理更重要。也就是说，压缩针对的是无效信息，而非长度本身。
 
 ### 去重、聚类与代表性采样决定样本分布质量
 
-蒸馏样本一旦开始大规模生成，很快就会出现一个问题：大量样本在表面上不同，但在能力意义上高度相似 ( Wang et al. 2023; Xu et al. 2024)。若不做去重和聚类处理，学生模型就会在同一种模式上反复训练，而对真正稀缺的边界样本、长尾样本和高混淆样本接触不足。这样训练出来的模型往往在常规输入上表现不错，但一旦遇到稍有变化的真实场景就变得脆弱。
+蒸馏样本一旦开始大规模生成，很快就会出现一个问题：大量样本在表面上不同，但在能力意义上高度相似 (Wang et al. 2023; Xu et al. 2024)。若不做去重和聚类处理，学生模型就会在同一种模式上反复训练，而对真正稀缺的边界样本、长尾样本和高混淆样本接触不足。这样训练出来的模型往往在常规输入上表现不错，但一旦遇到稍有变化的真实场景就变得脆弱。
 
 因此，样本压缩还有一个分布层面的含义，即用有限预算覆盖尽可能丰富的能力空间。聚类可以帮助团队识别哪些样本只是措辞不同、本质相同；代表性采样可以帮助团队在不同难度、不同任务类型、不同错误模式之间保持平衡；难例提升策略则可以确保学生不会被大量容易样本“喂得很舒服”，却始终学不会真正困难的判断。一个成熟的蒸馏系统，最终追求的是最合理的样本分布，而非最大样本量。
 
@@ -505,7 +507,7 @@ if __name__ == "__main__":
 
 ### 模型成本、延迟、推理质量的综合收益核算
 
-蒸馏是一项系统性投资，必须把收益与成本放在一起计算。单看质量提升，很容易得出“值得蒸馏”的乐观结论；但如果教师生成成本极高、裁判成本极高、样本维护成本长期存在，而学生上线后的成本节约有限，那么项目的真实 ROI 可能并不理想。相反，有些蒸馏项目即使质量只提升不多，但如果大幅降低了延迟和单位请求成本，也具有很强的工程价值 (  Jiao et al. 2020)。
+蒸馏是一项系统性投资，必须把收益与成本放在一起计算。单看质量提升，很容易得出“值得蒸馏”的乐观结论；但如果教师生成成本极高、裁判成本极高、样本维护成本长期存在，而学生上线后的成本节约有限，那么项目的真实 ROI 可能并不理想。相反，有些蒸馏项目即使质量只提升不多，但如果大幅降低了延迟和单位请求成本，也具有很强的工程价值 (Jiao et al. 2020)。
 
 因此，收益核算至少应覆盖三个维度。第一是质量收益，即准确率、事实一致性、工具成功率、格式合规率、用户满意度等。第二是系统收益，即平均延迟、峰值吞吐、资源占用、部署复杂度。第三是运营收益，即是否减少人工审核量、是否降低对教师模型在线调用的依赖、是否缩短交付周期。只有把这三类收益同时拉出来看，团队才能判断蒸馏到底是在创造价值，还是在制造一个昂贵的中间层。
 
@@ -546,6 +548,8 @@ if __name__ == "__main__":
 
 下面给出一张适合书稿使用的蒸馏收益与成本对照表，帮助团队做更系统的决策。
 
+*表16-2： 蒸馏收益与成本*
+
 | 评估维度 | 典型收益 | 典型成本 | 常见隐患 | 适用判断 |
 |---|---|---|---|---|
 | 推理质量 | 提升准确率、一致性、风格稳定性 | 教师生成成本、裁判评测成本 | 高分可能来自数据泄漏或验证集同质化 | 适合目标明确、评价标准清楚的任务 |
@@ -555,11 +559,11 @@ if __name__ == "__main__":
 | 工具能力迁移 | 提高调用成功率与流程稳定性 | 轨迹标注、执行验证与重放成本高 | 工具版本更新会导致样本失效 | 适合 Agent 和流程自动化任务 |
 | 组织协同 | 形成可复用教师—裁判—学生流水线 | 流程复杂度上升，协作角色更多 | 责任边界不清会拖慢优化 | 适合中大型团队长期建设 |
 
-为了让验证链路更直观，下面给出一张蒸馏样本验证流程图的生图提示词。
+为了让验证链路更直观，下面给出一张蒸馏样本验证流程图。
 
 
 
-![图16-2：蒸馏样本验证流程图](../../images/part5/图16_2_zh.png)
+![图16-2：蒸馏样本验证流程图](../../images/part5/图16_2.png)
 
 *图16-2：蒸馏样本验证流程图*
 

diff --git a/docs/zh/part4/ch14_qa.md b/docs/zh/part4/ch14_qa.md
@@ -124,7 +124,7 @@
 
 多轮对话任务则比单轮问答更复杂，因为它要求标注员不只处理某一句回答，而要对整个上下文负责。一个答案也许单看没有问题，但放在会话链中可能出现角色错位、记忆断裂、追问不当、风格跳变或策略不一致。因此，这类任务的平台界面通常不应只是显示当前轮输入，而应支持完整会话视图、轮次标记和上下文依赖提示。审核流程也更适合以会话为单位，而非拆成孤立句子进行判断。
 
-比较标注任务进一步体现了大模型数据生产的独特性。在这类任务中，标注员并不一定要直接给出标准答案，重点在于在两个或多个候选回复之间做偏好判断。成对比较可以追溯到 Thurstone 与 Bradley-Terry 一类比较判断模型，后来又成为人类偏好强化学习和语言模型偏好优化中的核心数据形式 (Christiano et al. 2017; Bradley and Terry 1952;Thurstone 1927)。这要求平台不仅要支持候选并列展示，还要控制顺序随机化、隐藏模型来源、结构化收集偏好理由，并在必要时让标注员按事实性、清晰度、完整性和安全性等维度分别打分。否则，比较结果很容易受到展示顺序、语言表面流畅度或个人偏好干扰，降低训练信号质量。
+比较标注任务进一步体现了大模型数据生产的独特性。在这类任务中，标注员并不一定要直接给出标准答案，重点在于在两个或多个候选回复之间做偏好判断。成对比较可以追溯到 Thurstone 与 Bradley-Terry 一类比较判断模型，后来又成为人类偏好强化学习和语言模型偏好优化中的核心数据形式 (Christiano et al. 2017; Bradley and Terry 1952; Thurstone 1927)。这要求平台不仅要支持候选并列展示，还要控制顺序随机化、隐藏模型来源、结构化收集偏好理由，并在必要时让标注员按事实性、清晰度、完整性和安全性等维度分别打分。否则，比较结果很容易受到展示顺序、语言表面流畅度或个人偏好干扰，降低训练信号质量。
 
 审稿式标注任务则最接近真实的数据精修过程。它并非简单从零生成，其重点是要求标注员识别已有回答的问题，然后在保留原意、修复缺陷、提升质量的前提下完成修改。这类任务对平台提出了更高要求，例如支持原文与修订文对照、差异高亮、修改原因选择、问题标签勾选和版本保留。因为审稿式任务的重点，既包括改出了什么，也包括为什么这么改。对后续训练来说，这些轨迹信息往往极有价值。
 
@@ -357,7 +357,7 @@
 因此，任务建模与工作流的关系，不能被理解为“先建模，再执行”这样一次性的线性关系，而应被理解为一个持续校正的生产闭环。前端设计影响后端质量，后端质量信号又反过来修正前端设计。只有当这个闭环真正建立起来，平台、QA和运营之间才会形成稳定的协同。
 
 
-![图14-1：大模型标注平台工作流图](../../images/part4/图14_1_zh.png)
+![图14-1：大模型标注平台工作流图](../../images/part4/图14_1.png)
 
 *图14-1：大模型标注平台工作流图*
 
@@ -461,12 +461,12 @@ if __name__ == "__main__":
 
 
 
-![图14-2：人机协同 QA 闭环图](../../images/part4/图14_2_zh.png)
+![图14-2：人机协同 QA 闭环图](../../images/part4/图14_2.png)
 
 *图14-2：人机协同 QA 闭环图*
 
 
-### 14.4 运营指标与供应商治理
+## 14.4 运营指标与供应商治理
 
 ### 14.4.1 人效、质量、周期、成本四类核心运营指标
 
@@ -551,7 +551,7 @@ FROM base;
 
 跨时区协同的优势，在于能够延长生产覆盖时间，使项目在更长时间段内持续运转。但它的隐性成本也非常明显：规则更新更容易滞后，返工闭环更容易变慢，问题解释在多轮转述中更容易失真。因此，并非所有任务都适合跨时区流水线生产。规则边界不稳定、争议较多、需要高频沟通和快速裁决的任务，通常更适合集中在沟通链短、反馈及时的时段执行。相反，结构清晰、规则成熟、风险较低的大批量任务，则更适合交由跨时区团队连续处理，以提升整体吞吐。
 
-多供应商并行时，还需要考虑口径统一问题。不同供应商往往有不同的管理习惯和执行文化，如果没有共享的校准机制，就极易形成“看起来都在按规则做，实际上各做各的”的局面。因此，跨供应商排班不应只看谁有空，而应考虑是否安排定期的共享校准样本、共用审计样本和统一的版本更新节奏。没有这些机制，多供应商反而会让一致性迅速恶化。跨团队一致性可以通过 Kappa、Alpha 等指标监控，但指标本身还需要结合错误标签和案例复盘解释 (Artstein and Poesio 2008;Krippendorff 2004)。
+多供应商并行时，还需要考虑口径统一问题。不同供应商往往有不同的管理习惯和执行文化，如果没有共享的校准机制，就极易形成“看起来都在按规则做，实际上各做各的”的局面。因此，跨供应商排班不应只看谁有空，而应考虑是否安排定期的共享校准样本、共用审计样本和统一的版本更新节奏。没有这些机制，多供应商反而会让一致性迅速恶化。跨团队一致性可以通过 Kappa、Alpha 等指标监控，但指标本身还需要结合错误标签和案例复盘解释 (Artstein and Poesio 2008; Krippendorff 2004)。
 
 多任务类型并行时，排班还要考虑认知切换成本。有些团队把所有任务混在一起，让同一批人同时做多轮对话、比较偏好和审稿修订，结果人效和质量双降。因为不同任务需要不同判断模式和注意力结构，频繁切换会带来显著损耗。更合理的做法，通常是按任务类型或相近能力要求进行分组排班，使人员在一个时间窗口内集中处理同类任务，从而降低切换负担，提高判断稳定性。
 

diff --git a/docs/zh/part14/p14_video_generation.md b/docs/zh/part14/p14_video_generation.md
@@ -279,7 +279,7 @@ final_sample = {
 
 | frame1 | frame2 |
 |---|---|
-| ![frame1](../../../images/part10/14_f0.jpg) | ![frame2](../../../images/part10/14_f1.jpg) |
+| ![frame1](../../images/part10/14_f0.jpg) | ![frame2](../../images/part10/14_f1.jpg) |
 
 图中展示了产出数据中的两帧采样结果。该片段展示了一段从高空视角拍摄的海岸线画面：深蓝色海水不断冲击崎岖礁石，浪花在暗色岩壁边缘形成明显的白色泡沫，岩石间分布着少量绿色植被，使画面在粗粝的自然环境中保留了一定的层次感。多帧 caption 覆盖了该片段的主体、场景、光照和氛围，描述了自然光照、冷色调海面、清晰的岩石纹理，以及海浪运动带来的动态感。从镜头语言标注结果看，该 shot 被识别为 `extreme_wide` 景别、`high_angle` 高角度视角，构图方式为 `rule_of_thirds`，光照类型为 `natural`，整体色彩倾向为 `cool`，风格标签为 `cinematic`。相机运动模块将其判定为 `zoom_in`，说明画面存在较明显的推进或尺度变化；`motion_strength=0.8974` 表明该片段具有稳定的运动信号，可用于 T2V 训练中学习自然场景运动、航拍视角和海岸镜头语言。
 

diff --git a/docs/zh/part5/ch15_data_synthesis.md b/docs/zh/part5/ch15_data_synthesis.md
@@ -150,7 +150,7 @@
 
 
 
-![图15-1：合成数据工厂流程图](../../images/part5/图15_1_zh.png)
+![图15-1：合成数据工厂流程图](../../images/part5/图15_1.png)
 
 *图15-1：合成数据工厂流程图*
 
@@ -498,7 +498,7 @@ if __name__ == "__main__":
 
 
 
-![图15-2：质量闸门与回流闭环图](../../images/part5/图15_2_zh.png)
+![图15-2：质量闸门与回流闭环图](../../images/part5/图15_2.png)
 
 *图15-2：质量闸门与回流闭环图*
 
